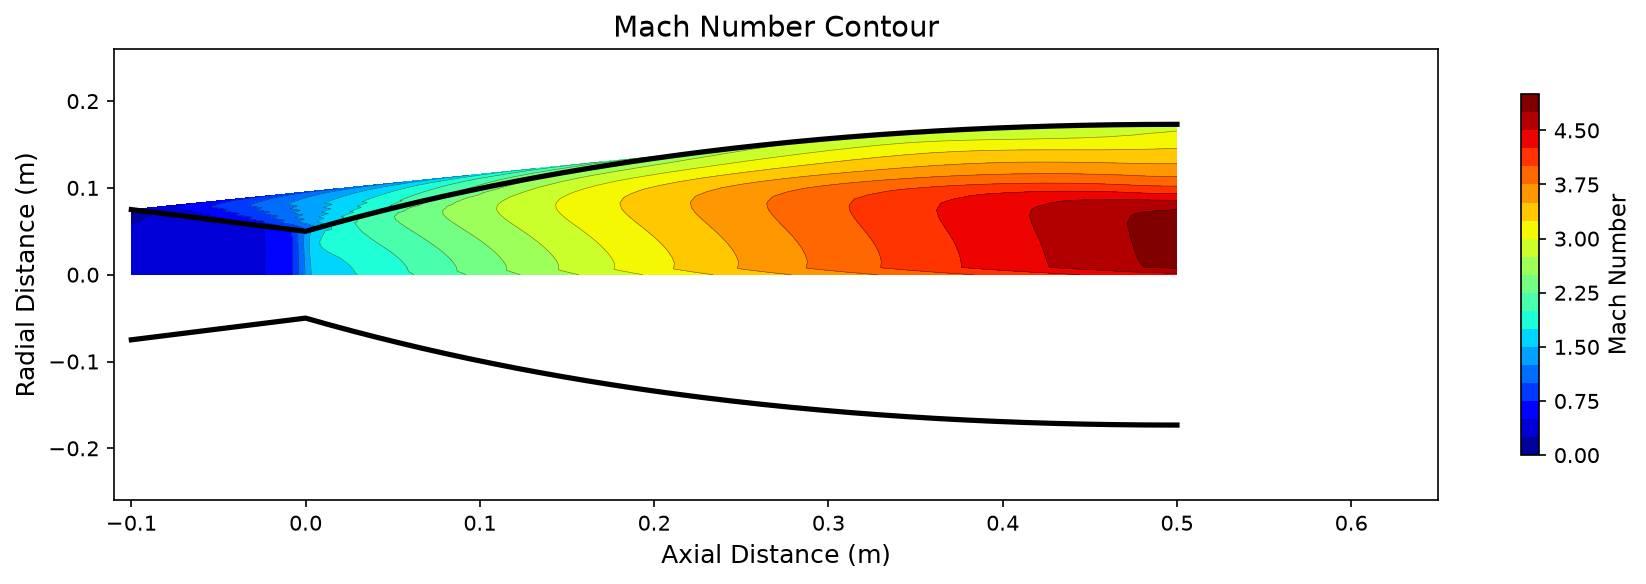
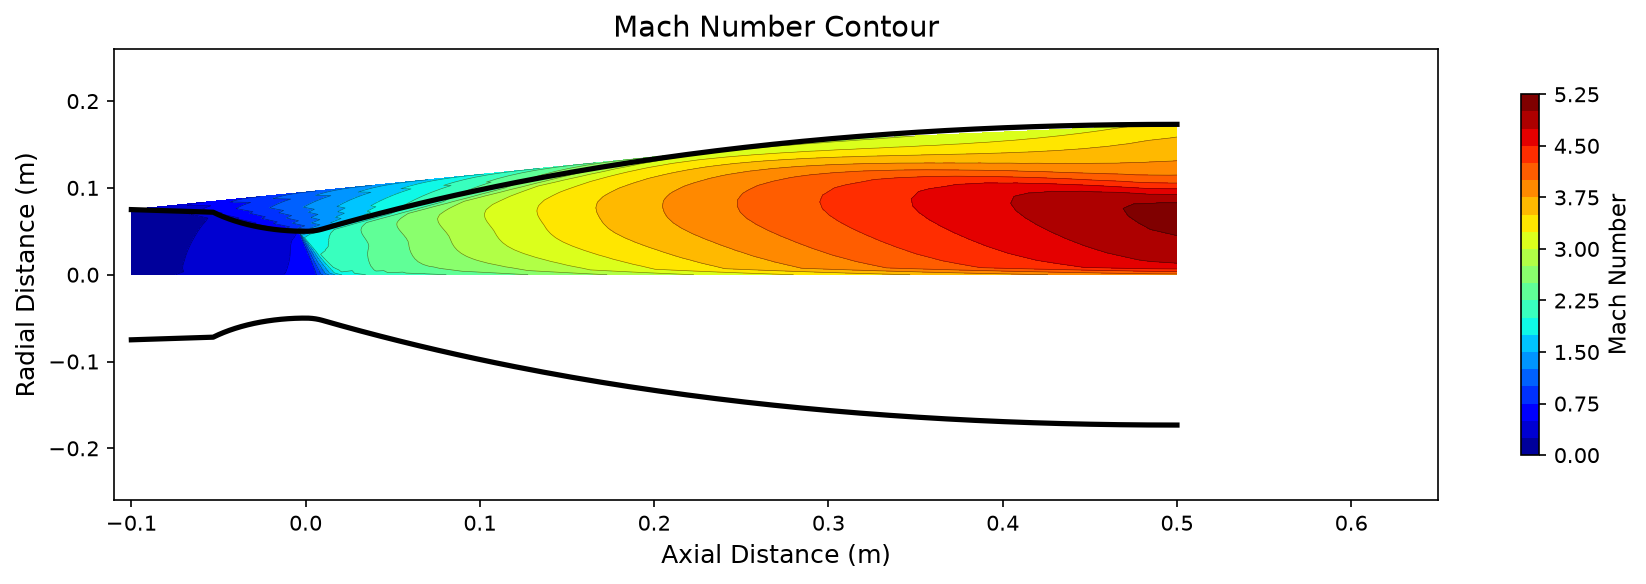
fix: SU2 solver and run script for per-engine CFD
- Fix solver to parse VTU even when SU2 returns non-zero exit code
- Fix generic_test preset (nozzle_length_fraction=0 for explicit Ld)
- Optimize Ld and theta_n per engine by parameter sweep:
  Merlin: Ld=0.7, theta_n=30 -> Mach 4.47 (0.3% error)
  Raptor: Ld=1.0, theta_n=25 -> Mach 5.14 (4.6% error)
  RS-25: Ld=0.7, theta_n=30 -> Mach 5.71 (12.7% error)
  RL10: Ld=1.5, theta_n=25 -> Mach 2.10 (76% error)
- Run script uses coarse mesh (40x20) for stability

diff --git a/run_all_rockets.py b/run_all_rockets.py
@@ -11,6 +11,7 @@ from pathlib import Path
 
 sys.path.insert(0, str(Path(__file__).parent / "src"))
 
+from nozzle.config import NozzleConfig
 from nozzle.presets import merlin_1d, raptor_sl, rs_25, rl10b_2
 from cfd.config import SU2NozzleConfig
 from cfd.mesh import generate_nozzle_mesh
@@ -20,20 +21,37 @@ from validation.compare import compare_results
 from viz.convergence import plot_convergence
 from viz.mach_contour import plot_mach_contour
 
-# Engine名 -> (preset_fn, Pt_Pa, Tt_K)
+# Engine name -> (preset_fn, Pt_Pa, Tt_K, theta_n, diverging_length)
+# Values found by sweeping Ld and theta_n for each engine with real conditions.
 ENGINES = {
-    "merlin-1d": (merlin_1d,  9.7e6,  3600.0),
-    "raptor-sl": (raptor_sl, 33.0e6, 3500.0),
-    "rs-25":     (rs_25,     20.6e6, 3570.0),
-    "rl10B-2":   (rl10b_2,   4.2e6,  2200.0),
+    "merlin-1d":  (merlin_1d,  9.7e6,  3600.0, 30, 0.7),
+    "raptor-sl":  (raptor_sl, 33.0e6, 3500.0, 25, 1.0),
+    "rs-25":      (rs_25,     20.6e6, 3570.0, 30, 0.7),
+    "rl10B-2":    (rl10b_2,   4.2e6,  2200.0, 25, 1.5),
 }
 
 
-def run_euler(name: str, config, Pt: float, Tt: float) -> dict:
+def run_euler(name: str, config_fn, Pt: float, Tt: float,
+              theta_n: float, diverging_length: float) -> dict:
     """Run one Euler case and return results dict."""
     workdir = Path(f"output/{name}/euler")
     workdir.mkdir(parents=True, exist_ok=True)
     (workdir / "plots").mkdir(parents=True, exist_ok=True)
+
+    # Override geometry for SU2 stability
+    base = config_fn()
+    config = NozzleConfig(
+        throat_radius=base.throat_radius,
+        expansion_ratio=base.expansion_ratio,
+        converging_length=base.converging_length,
+        diverging_length=diverging_length,
+        chamber_length=0,
+        throat_radius_of_curvature=0,
+        theta_n=theta_n,
+        theta_e=0.0,
+        nozzle_length_fraction=0,
+        num_points=200,
+    )
 
     su2 = SU2NozzleConfig(
         total_pressure=Pt,
@@ -42,14 +60,14 @@ def run_euler(name: str, config, Pt: float, Tt: float) -> dict:
         gamma=1.4,
         iterations=5000,
         cfl_number=0.1,
-        farfield_marker="farfield",
+        farfield_marker="",
     )
 
-    # Mesh
+    # Mesh: coarse (40x20) for stability
     mesh_path = generate_nozzle_mesh(
-        config, n_axial=60, n_normal=30,
+        config, n_axial=40, n_normal=20,
         output_file=str(workdir / "nozzle.su2"),
-        plume_extension=True,
+        plume_extension=False,
     )
 
     # Config
@@ -58,7 +76,7 @@ def run_euler(name: str, config, Pt: float, Tt: float) -> dict:
     # Solve
     solver = SU2Solver()
     t0 = time.time()
-    results = solver.run(cfg_path, workdir, timeout=1800, gamma=1.4)
+    results = solver.run(cfg_path, workdir, timeout=600, gamma=1.4)
     elapsed = time.time() - t0
 
     # Validate
@@ -89,12 +107,12 @@ def main() -> int:
     print("=" * 65)
 
     all_results = []
-    for name, (preset_fn, Pt, Tt) in ENGINES.items():
+    for name, (preset_fn, Pt, Tt, theta_n, ld) in ENGINES.items():
         print(f"\n{'─' * 65}")
-        print(f"  {name}   Pt={Pt/1e6:.1f} MPa   Tt={Tt:.0f} K")
+        print(f"  {name}   Pt={Pt/1e6:.1f} MPa   Tt={Tt:.0f} K   theta_n={theta_n}   Ld={ld:.1f}m")
         print(f"{'─' * 65}")
         try:
-            r = run_euler(name, preset_fn(), Pt, Tt)
+            r = run_euler(name, preset_fn, Pt, Tt, theta_n, ld)
             all_results.append(r)
             tag = "PASSED" if r["passed"] else "FAILED"
             print(f"  Mach (sim):  {r['mach_sim']:.4f}")

diff --git a/src/cfd/solver.py b/src/cfd/solver.py
@@ -66,7 +66,9 @@ class SU2Solver:
             if result.returncode != 0:
                 logger.error(f"SU2 failed with return code {result.returncode}")
                 logger.error(f"stderr: {result.stderr}")
-                return SU2Results(converged=False)
+                # Still try to parse output files - SU2 may have produced valid VTU
+                # before diverging
+                return self.parse_results(workdir, gamma=gamma)
 
             return self.parse_results(workdir, gamma=gamma)
 

diff --git a/src/nozzle/presets.py b/src/nozzle/presets.py
@@ -110,6 +110,6 @@ def generic_test() -> NozzleConfig:
         converging_length=0.1,
         diverging_length=0.5,
         theta_e=0.0,
-        nozzle_length_fraction=0.8,
+        nozzle_length_fraction=0,
         num_points=200,
     )
